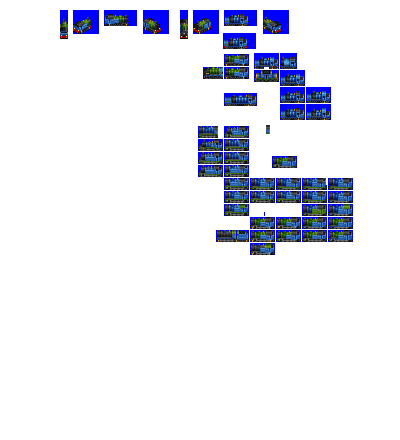
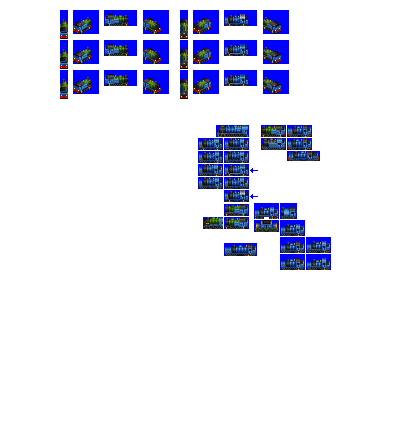
Change: WIP on Flareglow, Gwynt, Wildfire

Changed region(s): [[0.45, 0.0295, 0.9, 0.6205], [0.15, 0.0886, 0.42, 0.2364]]

diff --git a/src/vehicles/pony/flareglow.py b/src/vehicles/pony/flareglow.py
@@ -14,13 +14,14 @@ def main(**kwargs):
         power_by_power_source={
             "DIESEL": 2900,
         },
+        random_reverse=True,
         gen=4,
         extended_vehicle_life=True,
         speed=87,
         fixed_run_cost_points=118,  # minor run cost bonus as default algorithm makes run cost too high
         caboose_family="railfreight_1",
         # note that livery names are metadata only and can repeat for different spriterows
-        liveries=["VANILLA", "BANGER_BLUE", "RAILFREIGHT_RED_STRIPE", "SWOOSH"],
+        liveries=["VANILLA", "BANGER_BLUE", "FREIGHT_BLACK", "RAILFREIGHT_RED_STRIPE", "LARGE_LOGO"],
         default_livery_extra_docs_examples=[
             ("COLOUR_PALE_GREEN", "COLOUR_GREY"),
             ("COLOUR_BLUE", "COLOUR_GREY"),
@@ -37,14 +38,10 @@ def main(**kwargs):
 
     result.append(model_def)
 
-    """
-    model_def_clone = model_def.begin_clone(base_numeric_id=34900, unit_repeats=[1])
-
-    # JFDI, the single unit should randomly reverse, the default 2-unit version should not, so hax
-    model_def_clone.random_reverse = True
+    model_def_clone = model_def.begin_clone(base_numeric_id=39960, unit_repeats=[1])
 
     model_def = model_def_clone.complete_clone()
 
     result.append(model_def)
-    """
+
     return result

diff --git a/src/vehicles/pony/gwynt.py b/src/vehicles/pony/gwynt.py
@@ -12,15 +12,16 @@ def main(**kwargs):
         subrole="branch_freight",
         subrole_child_branch_num=-2,
         power_by_power_source={
-            "STEAM": 1000,
+            "STEAM": 800,
         },
         # dibble TE up for game balance, assume low gearing or something
         tractive_effort_coefficient=0.375,
+        speed=60,
         random_reverse=True,
-        gen=3,
-        intro_year_offset=0,
+        gen=2,
+        intro_year_offset=15,
         # note that livery names are metadata only and can repeat for different spriterows
-        liveries=["VANILLA", "FREIGHT_BLACK", "INDUSTRIAL_YELLOW"],
+        liveries=["VANILLA", "SWOOSH", "INDUSTRIAL_YELLOW"],
         sprites_complete=False,
     )
 

diff --git a/src/vehicles/pony/wildfire.py b/src/vehicles/pony/wildfire.py
@@ -19,7 +19,7 @@ def main(**kwargs):
         gen=5,  # not replaced by anything (?)
         intro_year_offset=7,  # introduce later than gen epoch by design
         # note that livery names are metadata only and can repeat for different spriterows
-        liveries=["VANILLA", "SWOOSH", "SWOOSH", "INDUSTRIAL_YELLOW"],
+        liveries=["SWOOSH", "SWOOSH", "BANGER_BLUE", "VANILLA", "INDUSTRIAL_YELLOW"],
         sprites_complete=False,
     )
 
